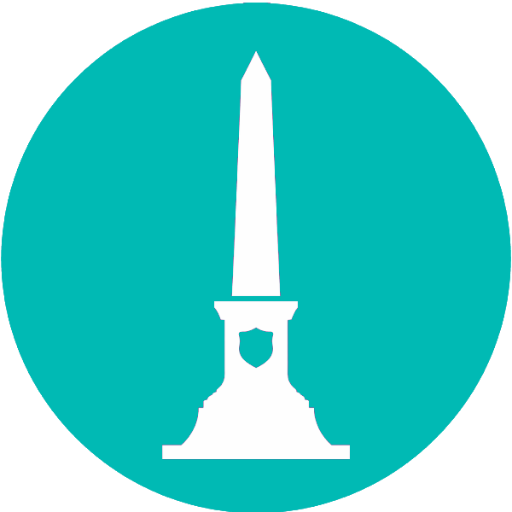
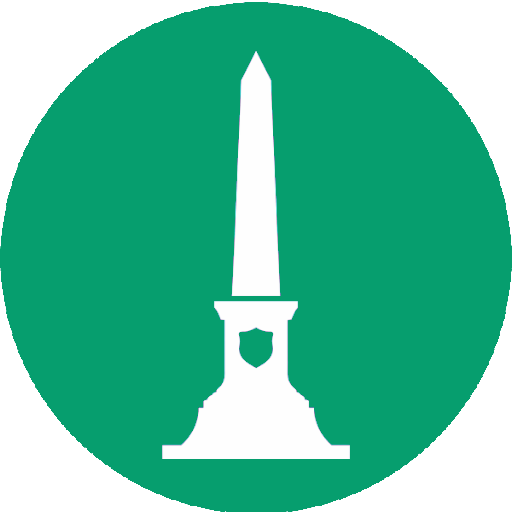
Alterada a cor principal para verde. Incluido a fase 2 do processo de registro.

diff --git a/Backend/TremBomApi/wwwroot/page/register2.html b/Backend/TremBomApi/wwwroot/page/register2.html
@@ -1,0 +1,105 @@
+<!DOCTYPE html>
+<html lang="pt-BR">
+<head>
+    <meta charset="UTF-8">
+    <meta name="viewport" content="width=device-width, initial-scale=1.0">
+    <title>Os Trem de BH</title>
+    <link rel="apple-touch-icon" sizes="180x180" href="/img/apple-touch-icon.png">
+    <link rel="icon" type="image/png" sizes="32x32" href="/img/favicon-32x32.png">
+    <link rel="icon" type="image/png" sizes="16x16" href="/img/favicon-16x16.png">
+    <link rel="manifest" href="/img/site.webmanifest">
+    <link rel="preconnect" href="https://fonts.googleapis.com">
+    <link rel="preconnect" href="https://fonts.gstatic.com" crossorigin>
+    <link href="https://fonts.googleapis.com/css2?family=Inter:ital,opsz,wght@0,14..32,100..900;1,14..32,100..900&display=swap" rel="stylesheet">
+    <link rel="stylesheet" href="/css/estiloregister.css">
+    <link rel="stylesheet" href="/css/estilologin.css">
+    <link rel="stylesheet" href="/css/estilopage.css">
+    <style>
+            .tags {
+                margin-top: 20px;
+                margin-bottom: 20px;
+                display: flex;
+                flex-wrap: wrap;
+                gap: 10px;
+                }
+
+            .tag {
+                padding: 8px 16px;
+                border-radius: 20px;
+                border: 2px solid #069E6E;
+                background: transparent;
+                color: #069E6E;
+                cursor: pointer;
+                transition: 0.2s;
+                font-weight: 500;
+                }
+
+            .tag:hover {
+                background: #069E6E;
+                color: white;
+                }
+
+            .tag.selected {
+                background: #069E6E;
+                color: white;
+                box-shadow: 0 0 8px rgba(6, 158, 110, 0.5);
+                }
+            .photo-upload {
+                display: flex;
+                justify-content: center;
+                margin-top: 20px;
+                margin-bottom: 20px;
+                }
+
+            .photo-upload img {
+                width: 120px;
+                height: 120px;
+                border-radius: 50%;
+                object-fit: cover;
+                cursor: pointer;
+                border: 1px solid var(--primary-green);
+                transition: 0.3s;
+                }
+
+            .photo-upload img:hover {
+                opacity: 0.8;
+                }
+            #foto-input {
+                display: none;
+                }
+    </style>
+</head>
+<body>
+    <div class="register-box">
+        <button class="btn-voltar" onclick="window.location.href='/index'">&lt;</button>
+        <img src="/img/android-chrome-192x192.png" id="logo" alt="OS TREM DE BH - Logo" class="logo-register">
+        <h2>Finalize sua conta</h2>
+        <p id="subtitulo-p">Preencha alguns detalhes abaixo e finaliza a criação da sua <span class="teal">conta</span>.</p>
+        <p id="error"></p>
+        <p class="subtitulo">Foto de perfil</p>
+        <form id="registro-form">
+            <div class="photo-upload">
+            <label for="foto-input">
+                <img id="preview" src="/img/default-avatar.jpg" alt="Foto de perfil">
+            </label>
+            <input type="file" id="foto-input" accept="image/*">
+            </div>
+            <div class="interesses">
+            <p class="subtitulo">Interesses</p>
+
+            <div class="tags">
+                <button type="button" class="tag">🌍 Cultura</button>
+                <button type="button" class="tag">🏛 História</button>
+                <button type="button" class="tag">🤖 Tecnologia</button>
+                <button type="button" class="tag">🦒 Animais</button>
+                <button type="button" class="tag">⛪ Religião</button>
+                <button type="button" class="tag">👪 Familia</button>
+                <button type="button" class="tag">🎉 Jovem</button>
+            </div>
+            <button class="btn-login" id="btn-register" type="submit">Registrar</button>
+        </form>
+    </div>
+    <script src="/script/register.js"></script>
+    <script src="/script/register2.js"></script>
+</body>
+</html>

diff --git a/Backend/TremBomApi/wwwroot/script/register.js b/Backend/TremBomApi/wwwroot/script/register.js
@@ -1,35 +1,87 @@
+
+document.addEventListener("DOMContentLoaded", () => {
+  const btn = document.getElementById("btn-register");
+
+  const inputs = [
+    document.getElementById("nome"),
+    document.getElementById("sobrenome"),
+    document.getElementById("email"),
+    document.getElementById("senha"),
+    document.getElementById("conf-senha")
+  ];
+
+  function validar() {
+    const todosPreenchidos = inputs.every(el => el && el.value.trim() !== "");
+    btn.disabled = !todosPreenchidos;
+  }
+
+  inputs.forEach(el => el.addEventListener("input", validar));
+
+  btn.disabled = true; 
+});
+
 document.getElementById("registro-form").addEventListener("submit", function (e) {
   e.preventDefault();
 
-  const nome = document.getElementById("nome").value.trim();
-  const sobrenome = document.getElementById("sobrenome").value.trim();
-  const email = document.getElementById("email").value.trim();
-  const senha = document.getElementById("senha").value.trim();
-  const confirmarSenha = document.getElementById("conf-senha").value.trim();
+  const nomeInput = document.getElementById("nome");
+  const nome = nomeInput.value.trim()
+  const sobrenomeInput = document.getElementById("sobrenome");
+  const sobrenome= sobrenomeInput.value.trim();
+  const emailInput = document.getElementById("email");
+  const email = emailInput.value.trim();
+  const senhaInput = document.getElementById("senha");
+  const senha = senhaInput.value.trim();
+  const confirmarSenhaInput = document.getElementById("conf-senha");
+  const confirmarSenha = confirmarSenhaInput.value.trim();
   const error = document.getElementById("error");
+  const day = parseInt(document.getElementById("day").value);
+  const month = parseInt(document.getElementById("month").value);
+  const year = parseInt(document.getElementById("year").value);
 
-  error.textContent = "";
+  if (!day || !month || !year) {
+    error.textContent = "Selecione uma data completa.";
+    return;
+  }
+
+  const hoje = new Date();
+  const nascimento = new Date(year, month - 1, day);
+
+  // Validação da idade
+  let idade = hoje.getFullYear() - nascimento.getFullYear();
+  const mes = hoje.getMonth() - nascimento.getMonth();
+
+  if (mes < 0 || (mes === 0 && hoje.getDate() < nascimento.getDate())) {
+    idade--;
+  }
+
+  if (idade < 13) {
+    error.textContent = "Você precisa ter pelo menos 13 anos.";
+    error.style.display = 'block';
+    return;
+  }
 
   // validações básicas
-  if (name === "" || sobrenome == '') {
+  else if (nome.length < 3 || sobrenome.length < 2 ) {
     error.textContent = "Por favor, digite um nome válido.";
+    error.style.display = 'block';
+    nomeInput.classList.add('input-erro')
+    sobrenomeInput.classList.add('input-erro')
     return;
   }
 
-  else if (!email.includes("@")) {
-    error.textContent = "E-mail inválido";
-    return;
-  }
-
-  else if (password.length < 6) {
+  else if (senha.length < 6) {
     error.textContent = "Senha precisa ter pelo menos 6 caracteres";
+    senhaInput.classList.add('input-erro')
+    error.style.display = 'block';
     return;
   }
-  else if (password != confirmarSenha){
+  else if (senha != confirmarSenha){
     error.textContent = "As senhas não coincidem."
+    confirmarSenhaInput.classList.add('input-erro')
+    error.style.display = 'block';
     return;
   }
+  error.style.display = 'none';
 
-  // se tudo ok
-  alert("Formulário válido!");
+  window.location.href = "/page/register2.html";
 });

diff --git a/Backend/TremBomApi/wwwroot/page/register.html b/Backend/TremBomApi/wwwroot/page/register.html
@@ -7,7 +7,7 @@
     <link rel="apple-touch-icon" sizes="180x180" href="/img/apple-touch-icon.png">
     <link rel="icon" type="image/png" sizes="32x32" href="/img/favicon-32x32.png">
     <link rel="icon" type="image/png" sizes="16x16" href="/img/favicon-16x16.png">
-    <link rel="manifest" href="img/site.webmanifest">
+    <link rel="manifest" href="/img/site.webmanifest">
     <link rel="preconnect" href="https://fonts.googleapis.com">
     <link rel="preconnect" href="https://fonts.gstatic.com" crossorigin>
     <link href="https://fonts.googleapis.com/css2?family=Inter:ital,opsz,wght@0,14..32,100..900;1,14..32,100..900&display=swap" rel="stylesheet">
@@ -67,7 +67,7 @@
             <p id="subtitulo-p">Ao tocar em Registrar, você concorda em criar uma conta e com os <span class="teal">Termos</span> do Os Trem de BH, a <span class="teal"> Política de Privacidade</span> e a <span class="teal">Política de Cookies.</span>
             A Política de Privacidade descreve as formas como podemos usar as informações que coletamos quando você cria uma conta. 
             Por exemplo, usamos essas informações para fornecer, personalizar e melhorar nossos produtos, incluindo anúncios.</p>
-            <button class="btn-login" id="btn-register">Registrar</button>
+            <button class="btn-login" id="btn-register" type="submit">Registrar</button>
         </form>
     </div>
     <script src="/script/register.js"></script>

diff --git a/Backend/TremBomApi/wwwroot/css/estiloregister.css b/Backend/TremBomApi/wwwroot/css/estiloregister.css
@@ -6,9 +6,19 @@ body {
   align-items: center;      
   min-height: 100vh;
 }
+
+#error {
+  display: none;
+  background-color: rgba(255, 0, 0, 0.2);
+  border-radius: 10px;
+  padding: 10px;
+}
+.input-erro {
+  border: 1px solid rgba(255, 0, 0, 0.8) !important;
+}
 .register-box {
-    margin-top: 40px;
-    margin-bottom: 40px;
+  margin-top: 40px;
+  margin-bottom: 40px;
   background: white;
   min-height: 100vh;
   align-self: center;
@@ -48,7 +58,7 @@ body {
   background-color: grey;
 }
 .btn-login {
-    background: var(--primary-teal);
+    background: var(--primary-green);
     border: none;
     color: white;
     font-size: 16px;

diff --git a/Backend/TremBomApi/wwwroot/css/estilologin.css b/Backend/TremBomApi/wwwroot/css/estilologin.css
@@ -47,12 +47,17 @@ body {
   font-family: 'Inter', 'Segoe UI', Tahoma, Geneva, Verdana, sans-serif;
 }
 .teal {
-    color: var(--primary-teal);
+    color: var(--primary-green);
 }
 #titulo-login {
     font-size: 24px;
     margin-bottom: 14px;
     text-align: left;
+}
+button:disabled {
+  opacity: 0.5;
+  background-color: grey;
+  cursor: not-allowed;
 }
 .btn-login {
   margin-top: 14px;
@@ -77,7 +82,7 @@ body {
 }
 
 .input:focus {
-  border-color: var(--primary-teal);
+  border-color: var(--primary-green);
   box-shadow: 0 0 0 3px rgba(24, 119, 242, 0.15);
 }
 

diff --git a/Backend/TremBomApi/wwwroot/script/register2.js b/Backend/TremBomApi/wwwroot/script/register2.js
@@ -1,0 +1,22 @@
+const input = document.getElementById("foto-input");
+const preview = document.getElementById("preview");
+
+input.addEventListener("change", () => {
+  const file = input.files[0];
+
+  if (file) {
+    const reader = new FileReader();
+
+    reader.onload = function (e) {
+      preview.src = e.target.result;
+    };
+    reader.readAsDataURL(file);
+  }
+});
+const tags = document.querySelectorAll(".tag");
+
+tags.forEach(tag => {
+  tag.addEventListener("click", () => {
+    tag.classList.toggle("selected");
+  });
+});

diff --git a/Backend/TremBomApi/wwwroot/css/Navbar.css b/Backend/TremBomApi/wwwroot/css/Navbar.css
@@ -10,7 +10,6 @@
     --primary-green: #069E6E;
     --primary-blue: #3E7996;
     --primary-dark: #2D2E47;
-    --primary-teal: #00BAB4;
     --primary-dark-blue: #2F6C82;
     --white-alpha: rgba(255, 255, 255, 0.85);
     --white-alpha-hover: rgba(255, 255, 255, 0.95);
@@ -57,7 +56,7 @@ body::before {
 }
 
 .btn-login {
-  background: var(--primary-teal);
+  background: var(--primary-green);
   border: none;
   color: white;
   font-size: 16px;

diff --git a/Backend/TremBomApi/wwwroot/css/estilopage.css b/Backend/TremBomApi/wwwroot/css/estilopage.css
@@ -3,7 +3,6 @@
     --primary-green: #069E6E;
     --primary-blue: #3E7996;
     --primary-dark: #2D2E47;
-    --primary-teal: #00BAB4;
     --primary-dark-blue: #2F6C82;
     --white-alpha: rgba(255, 255, 255, 0.92);
     --white-alpha-hover: rgba(255, 255, 255, 0.98);
